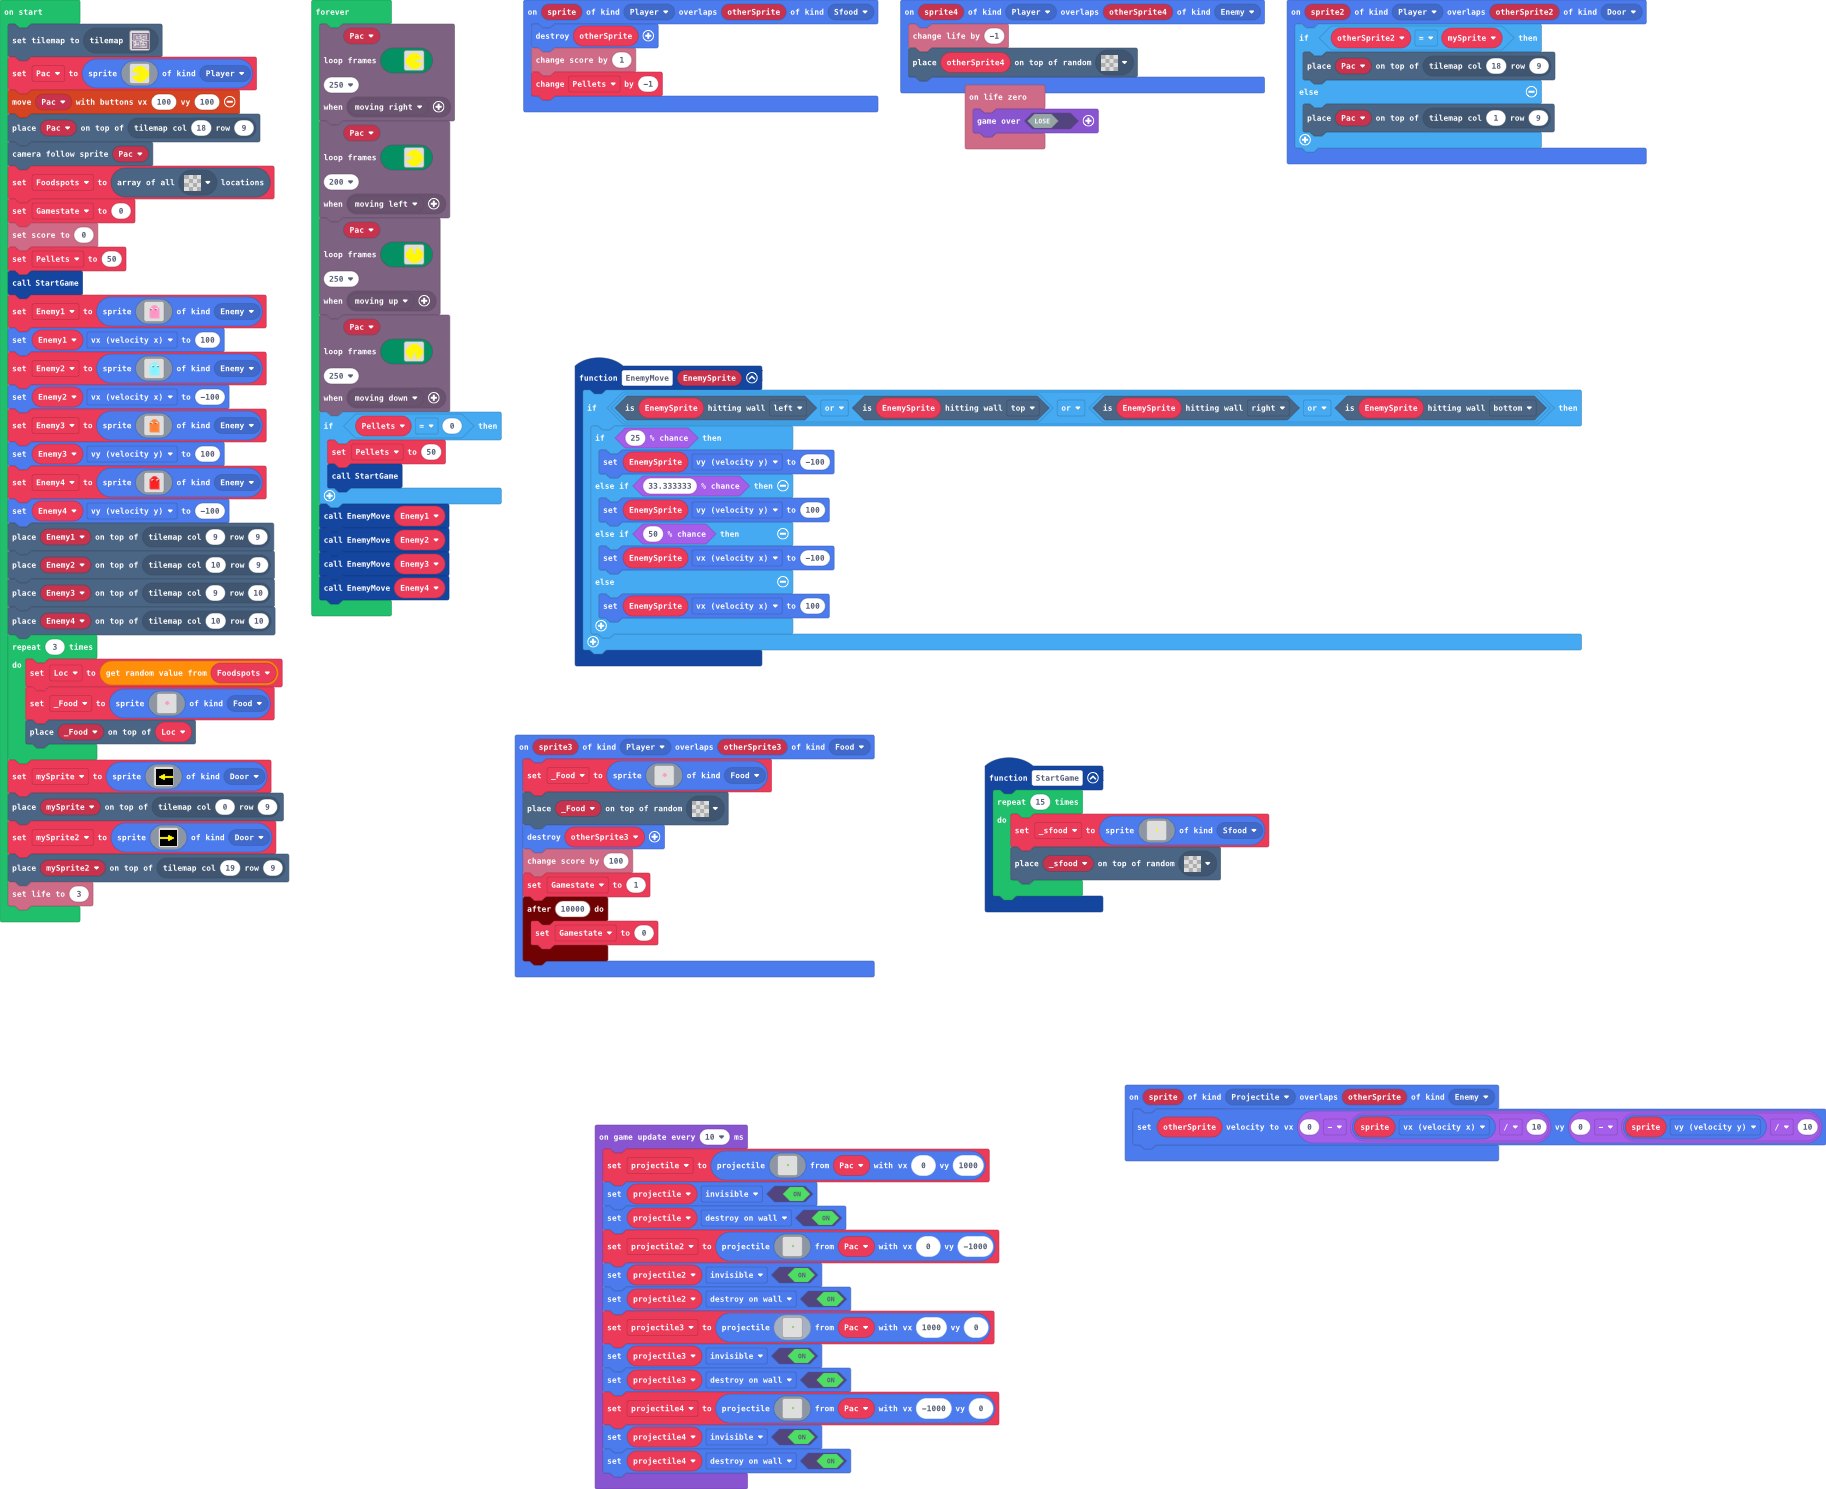
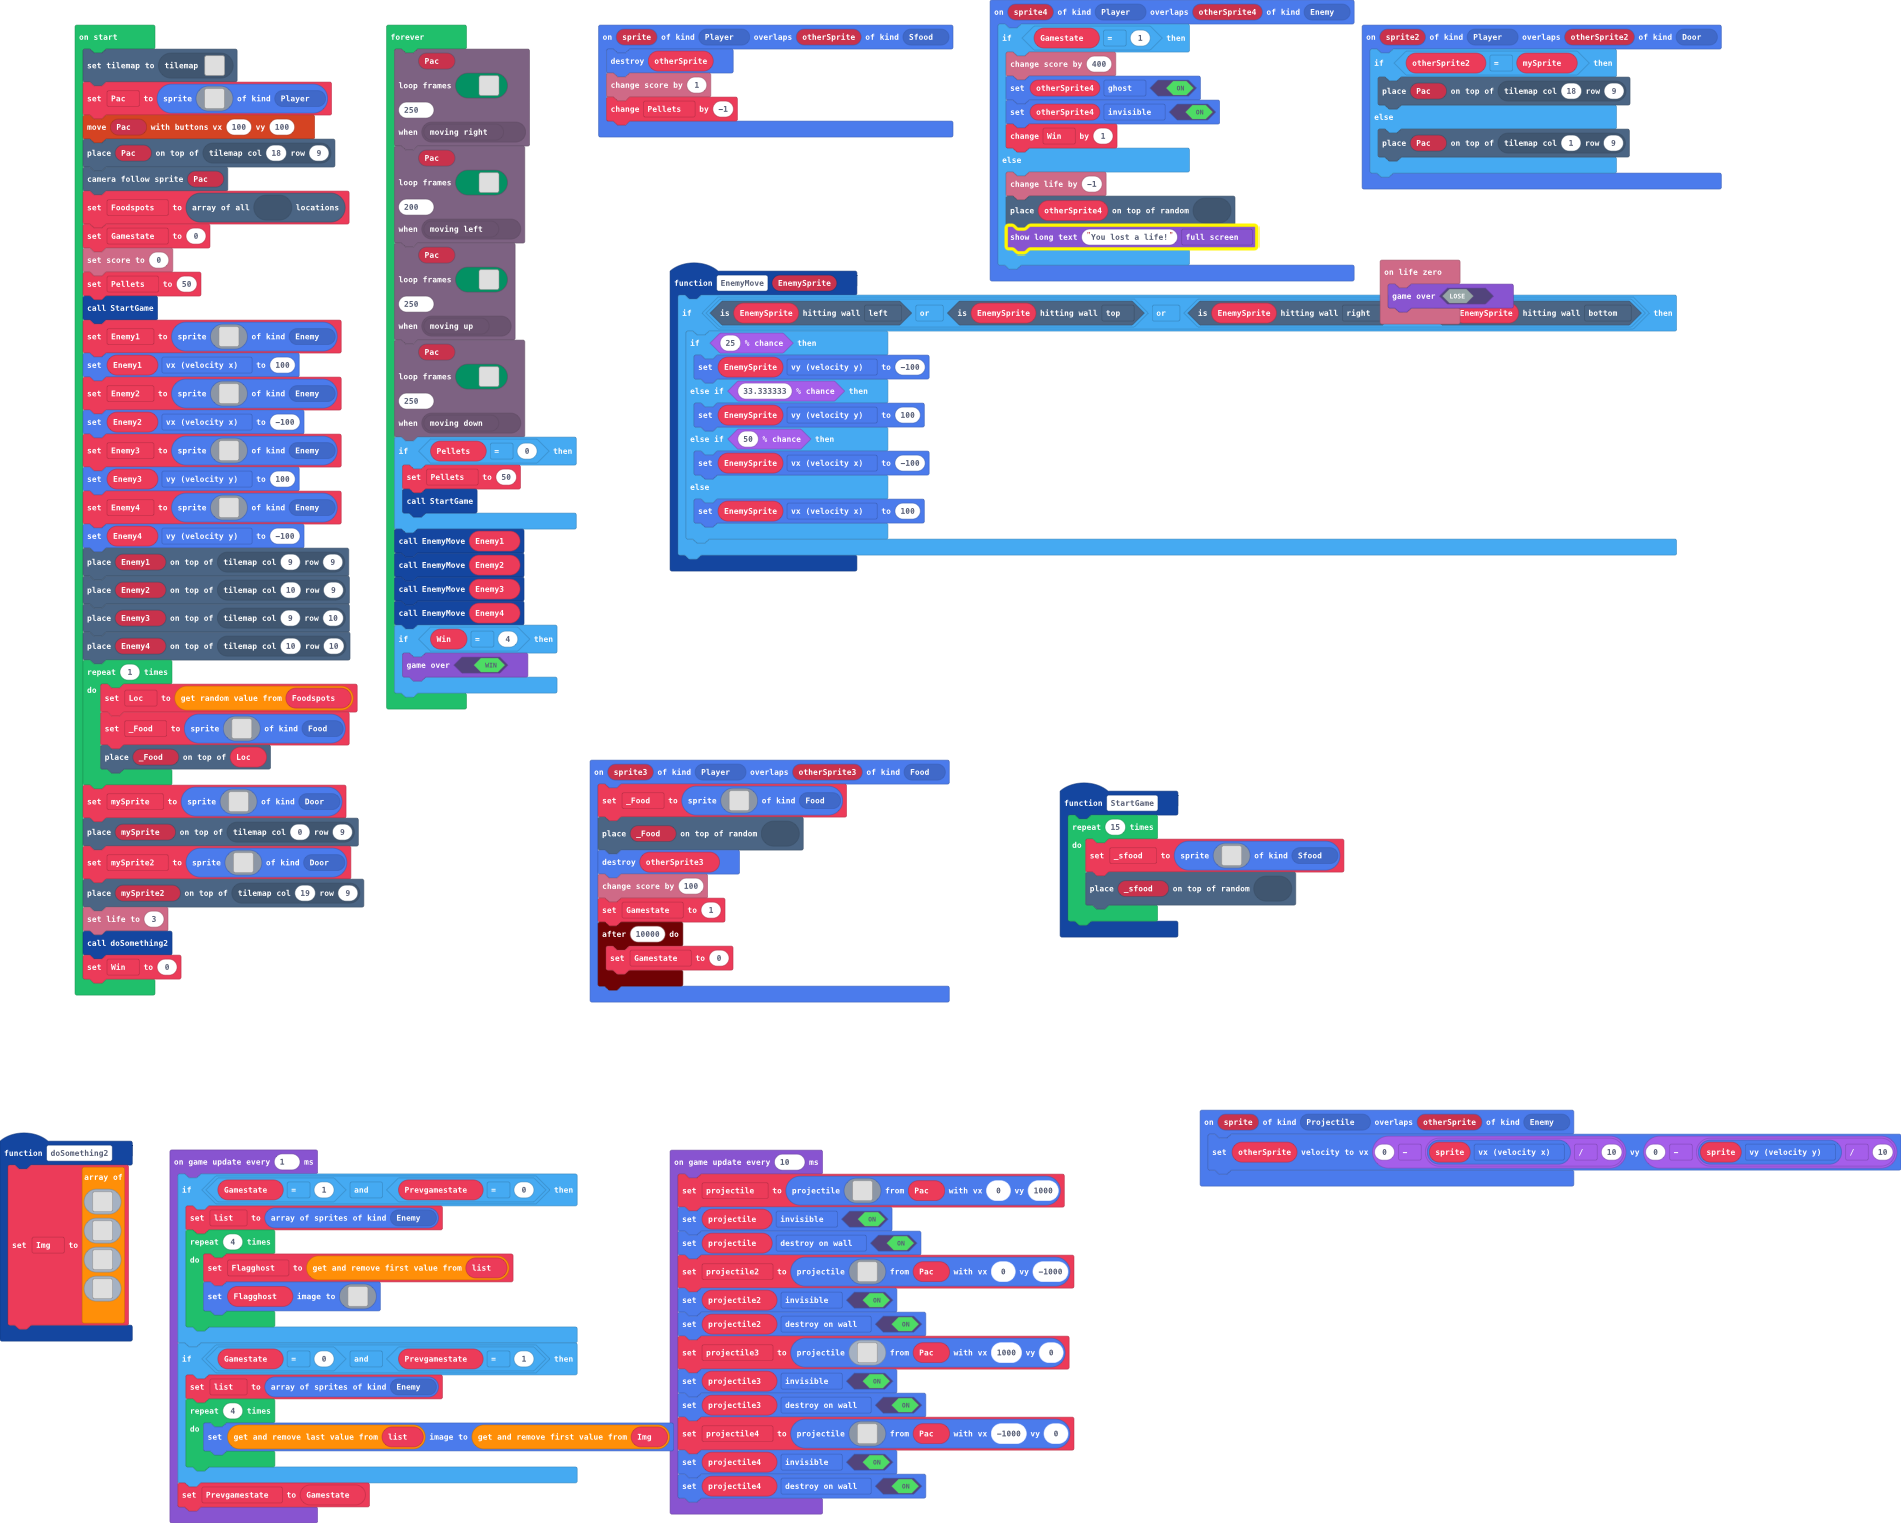
Update pxt.json, main.blocks, main.ts, tilemap.g.jres, tilemap.g.ts

diff --git a/main.ts b/main.ts
@@ -1,6 +1,7 @@
 namespace SpriteKind {
     export const Sfood = SpriteKind.create()
     export const Door = SpriteKind.create()
+    export const Overlay = SpriteKind.create()
 }
 sprites.onOverlap(SpriteKind.Player, SpriteKind.Sfood, function (sprite, otherSprite) {
     otherSprite.destroy()
@@ -8,8 +9,16 @@ sprites.onOverlap(SpriteKind.Player, SpriteKind.Sfood, function (sprite, otherSp
     Pellets += -1
 })
 sprites.onOverlap(SpriteKind.Player, SpriteKind.Enemy, function (sprite4, otherSprite4) {
-    info.changeLifeBy(-1)
-    tiles.placeOnRandomTile(otherSprite4, assets.tile`transparency16`)
+    if (Gamestate == 1) {
+        info.changeScoreBy(400)
+        otherSprite4.setFlag(SpriteFlag.Ghost, true)
+        otherSprite4.setFlag(SpriteFlag.Invisible, true)
+        Win += 1
+    } else {
+        info.changeLifeBy(-1)
+        tiles.placeOnRandomTile(otherSprite4, assets.tile`transparency16`)
+        game.showLongText("You lost a life!", DialogLayout.Full)
+    }
 })
 sprites.onOverlap(SpriteKind.Player, SpriteKind.Door, function (sprite2, otherSprite2) {
     if (otherSprite2 == mySprite) {
@@ -57,6 +66,82 @@ function StartGame () {
         tiles.placeOnRandomTile(_sfood, assets.tile`transparency16`)
     }
 }
+function doSomething2 () {
+    Img = [
+    img`
+        . . . . . . . . . . . . . . . . 
+        . . . . . . 3 3 3 3 . . . . . . 
+        . . . . . 3 3 3 3 3 3 . . . . . 
+        . . . . 3 3 3 3 3 3 3 3 . . . . 
+        . . . 3 1 1 3 3 3 1 1 3 3 . . . 
+        . . . 3 f 1 3 3 3 f 1 3 3 . . . 
+        . . . 3 3 3 3 3 3 3 3 3 3 . . . 
+        . . . 3 3 3 3 3 3 3 3 3 3 . . . 
+        . . . 3 3 3 3 3 3 3 3 3 3 . . . 
+        . . . 3 3 3 3 3 3 3 3 3 3 . . . 
+        . . . 3 3 3 3 3 3 3 3 3 3 . . . 
+        . . . 3 3 3 3 3 3 3 3 3 3 . . . 
+        . . . 3 3 3 3 3 3 3 3 3 3 . . . 
+        . . . 3 3 3 3 3 3 3 3 3 3 . . . 
+        . . . . 3 . 3 . 3 . 3 . 3 . . . 
+        . . . . . . . . . . . . . . . . 
+        `,
+    img`
+        . . . . . . . . . . . . . . . . 
+        . . . . . . 9 9 9 9 . . . . . . 
+        . . . . . 9 9 9 9 9 9 . . . . . 
+        . . . . 9 9 9 9 9 9 9 9 . . . . 
+        . . . 9 9 1 1 9 9 9 1 1 9 . . . 
+        . . . 9 9 1 f 9 9 9 1 f 9 . . . 
+        . . . 9 9 9 9 9 9 9 9 9 9 . . . 
+        . . . 9 9 9 9 9 9 9 9 9 9 . . . 
+        . . . 9 9 9 9 9 9 9 9 9 9 . . . 
+        . . . 9 9 9 9 9 9 9 9 9 9 . . . 
+        . . . 9 9 9 9 9 9 9 9 9 9 . . . 
+        . . . 9 9 9 9 9 9 9 9 9 9 . . . 
+        . . . 9 9 9 9 9 9 9 9 9 9 . . . 
+        . . . 9 9 9 9 9 9 9 9 9 9 . . . 
+        . . . . 9 . 9 . 9 . 9 . 9 . . . 
+        . . . . . . . . . . . . . . . . 
+        `,
+    img`
+        . . . . . . . . . . . . . . . . 
+        . . . . . . 4 4 4 4 . . . . . . 
+        . . . . . 4 4 4 4 4 4 . . . . . 
+        . . . . 4 4 4 4 4 4 4 4 . . . . 
+        . . . 4 1 1 4 4 4 1 1 4 4 . . . 
+        . . . 4 f 1 4 4 4 f 1 4 4 . . . 
+        . . . 4 4 4 4 4 4 4 4 4 4 . . . 
+        . . . 4 4 4 4 4 4 4 4 4 4 . . . 
+        . . . 4 4 4 4 4 4 4 4 4 4 . . . 
+        . . . 4 4 4 4 4 4 4 4 4 4 . . . 
+        . . . 4 4 4 4 4 4 4 4 4 4 . . . 
+        . . . 4 4 4 4 4 4 4 4 4 4 . . . 
+        . . . 4 4 4 4 4 4 4 4 4 4 . . . 
+        . . . 4 4 4 4 4 4 4 4 4 4 . . . 
+        . . . . 4 . 4 . 4 . 4 . 4 . . . 
+        . . . . . . . . . . . . . . . . 
+        `,
+    img`
+        . . . . . . . . . . . . . . . . 
+        . . . . . . 8 8 8 8 . . . . . . 
+        . . . . . 8 8 8 8 8 8 . . . . . 
+        . . . . 8 8 8 8 8 8 8 8 . . . . 
+        . . . 8 8 1 1 8 8 8 1 1 8 . . . 
+        . . . 8 8 1 f 8 8 8 1 f 8 . . . 
+        . . . 8 8 8 8 8 8 8 8 8 8 . . . 
+        . . . 8 8 8 8 8 8 8 8 8 8 . . . 
+        . . . 8 8 8 8 8 8 8 8 8 8 . . . 
+        . . . 8 8 8 8 8 8 8 8 8 8 . . . 
+        . . . 8 8 8 8 8 8 8 8 8 8 . . . 
+        . . . 8 8 8 8 8 8 8 8 8 8 . . . 
+        . . . 8 8 8 8 8 8 8 8 8 8 . . . 
+        . . . 8 8 8 8 8 8 8 8 8 8 . . . 
+        . . . . 8 . 8 . 8 . 8 . 8 . . . 
+        . . . . . . . . . . . . . . . . 
+        `
+    ]
+}
 sprites.onOverlap(SpriteKind.Player, SpriteKind.Food, function (sprite3, otherSprite3) {
     _Food = sprites.create(img`
         . . . . . . . . . . . . . . . . 
@@ -87,10 +172,14 @@ sprites.onOverlap(SpriteKind.Player, SpriteKind.Food, function (sprite3, otherSp
 sprites.onOverlap(SpriteKind.Projectile, SpriteKind.Enemy, function (sprite, otherSprite) {
     otherSprite.setVelocity(0 - sprite.vx / 10, 0 - sprite.vy / 10)
 })
+let Flagghost: Sprite = null
+let list: Sprite[] = []
+let Prevgamestate = 0
 let projectile4: Sprite = null
 let projectile3: Sprite = null
 let projectile2: Sprite = null
 let projectile: Sprite = null
+let Img: Image[] = []
 let _sfood: Sprite = null
 let mySprite: Sprite = null
 let _Food: Sprite = null
@@ -187,7 +276,7 @@ tiles.placeOnTile(Enemy1, tiles.getTileLocation(9, 9))
 tiles.placeOnTile(Enemy2, tiles.getTileLocation(10, 9))
 tiles.placeOnTile(Enemy3, tiles.getTileLocation(9, 10))
 tiles.placeOnTile(Enemy4, tiles.getTileLocation(10, 10))
-for (let index = 0; index < 3; index++) {
+for (let index = 0; index < 1; index++) {
     Loc = Foodspots._pickRandom()
     _Food = sprites.create(img`
         . . . . . . . . . . . . . . . . 
@@ -248,6 +337,8 @@ let mySprite2 = sprites.create(img`
     `, SpriteKind.Door)
 tiles.placeOnTile(mySprite2, tiles.getTileLocation(19, 9))
 info.setLife(3)
+doSomething2()
+let Win = 0
 game.onUpdateInterval(10, function () {
     projectile = sprites.createProjectileFromSprite(img`
         . . . . . . . . . . . . . . . . 
@@ -329,6 +420,39 @@ game.onUpdateInterval(10, function () {
         `, Pac, -1000, 0)
     projectile4.setFlag(SpriteFlag.Invisible, true)
     projectile4.setFlag(SpriteFlag.DestroyOnWall, true)
+})
+game.onUpdateInterval(1, function () {
+    if (Gamestate == 1 && Prevgamestate == 0) {
+        list = sprites.allOfKind(SpriteKind.Enemy)
+        for (let index = 0; index < 4; index++) {
+            Flagghost = list.shift()
+            Flagghost.setImage(img`
+                . . . . . . . . . . . . . . . . 
+                . . . . . . 6 6 6 6 . . . . . . 
+                . . . . . 6 6 6 6 6 6 . . . . . 
+                . . . . 6 6 6 6 6 6 6 6 . . . . 
+                . . . 6 6 9 9 6 6 6 9 9 6 . . . 
+                . . . 6 6 9 f 6 6 6 9 f 6 . . . 
+                . . . 6 6 6 6 6 6 6 6 6 6 . . . 
+                . . . 6 6 6 6 6 6 6 6 6 6 . . . 
+                . . . 6 6 6 6 6 6 6 6 6 6 . . . 
+                . . . 6 6 6 6 6 6 6 6 6 6 . . . 
+                . . . 6 6 6 6 6 6 6 6 6 6 . . . 
+                . . . 6 6 6 6 6 6 6 6 6 6 . . . 
+                . . . 6 6 6 6 6 6 6 6 6 6 . . . 
+                . . . 6 6 6 6 6 6 6 6 6 6 . . . 
+                . . . . 6 . 6 . 6 . 6 . 6 . . . 
+                . . . . . . . . . . . . . . . . 
+                `)
+        }
+    }
+    if (Gamestate == 0 && Prevgamestate == 1) {
+        list = sprites.allOfKind(SpriteKind.Enemy)
+        for (let index = 0; index < 4; index++) {
+            list.pop().setImage(Img.shift())
+        }
+    }
+    Prevgamestate = Gamestate
 })
 forever(function () {
     characterAnimations.loopFrames(
@@ -499,4 +623,7 @@ forever(function () {
     EnemyMove(Enemy2)
     EnemyMove(Enemy3)
     EnemyMove(Enemy4)
+    if (Win == 4) {
+        game.over(true)
+    }
 })

diff --git a/tilemap.g.ts b/tilemap.g.ts
@@ -139,6 +139,25 @@ namespace myTiles {
 2..................2
 22222222222222222222
 `, [myTiles.transparency16,myTiles.tile7], TileScale.Sixteen);
+            case "level7":
+            case "level7":return tiles.createTilemap(hex`1000100000000000000000000000000000000000000000000000000000000000000000000000000000000000000000000000000000000000000000000000000000000000000000000000000000000000000000000000000000000000000000000000000000000000000000000000000000000000000000000000000000000000000000000000000000000000000000000000000000000000000000000000000000000000000000000000000000000000000000000000000000000000000000000000000000000000000000000000000000000000000000000000000000000000000000000000000000000000000000000000000000000000000000000000000000000000`, img`
+. . . . . . . . . . . . . . . . 
+. . . . . . . . . . . . . . . . 
+. . . . . . . . . . . . . . . . 
+. . . . . . . . . . . . . . . . 
+. . . . . . . . . . . . . . . . 
+. . . . . . . . . . . . . . . . 
+. . . . . . . . . . . . . . . . 
+. . . . . . . . . . . . . . . . 
+. . . . . . . . . . . . . . . . 
+. . . . . . . . . . . . . . . . 
+. . . . . . . . . . . . . . . . 
+. . . . . . . . . . . . . . . . 
+. . . . . . . . . . . . . . . . 
+. . . . . . . . . . . . . . . . 
+. . . . . . . . . . . . . . . . 
+. . . . . . . . . . . . . . . . 
+`, [myTiles.transparency16], TileScale.Sixteen);
         }
         return null;
     })
